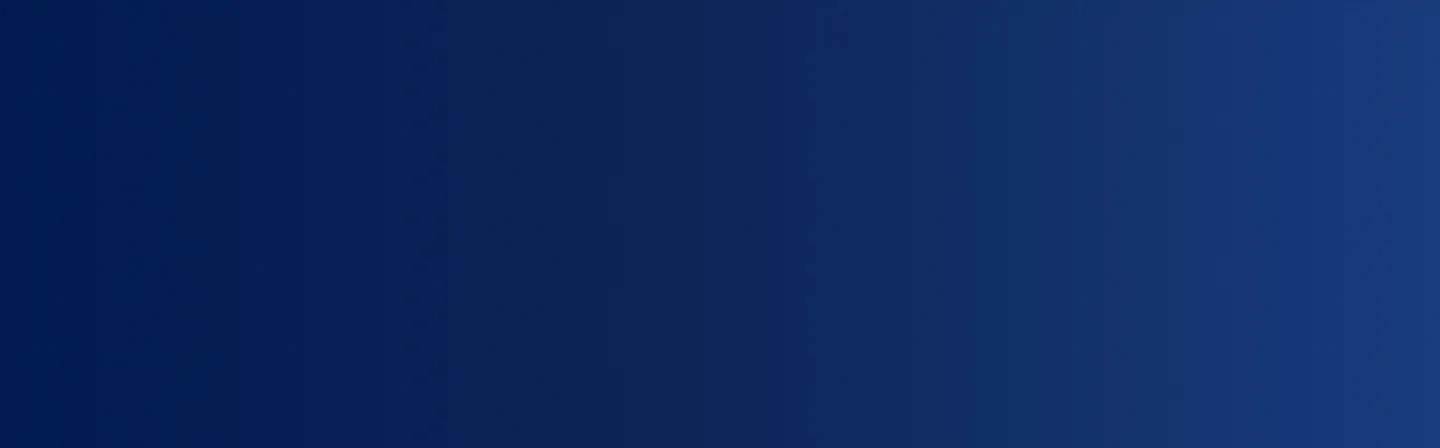
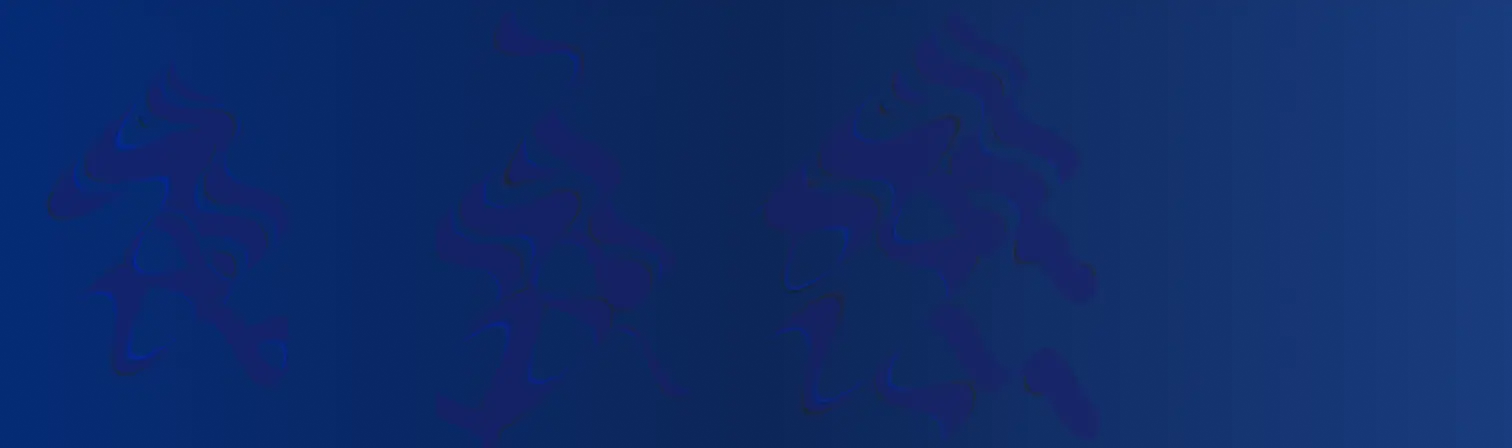
style: redesign footer section

diff --git a/src/components/Footer.jsx b/src/components/Footer.jsx
@@ -65,7 +65,7 @@ const Footer = () => {
       />
       
       {/* Layer 2: Monas Logo (Animated) */}
-      <div className="absolute right-0 bottom-0 z-10 h-full w-[80%] max-w-[650px] flex items-end justify-end pointer-events-none">
+      <div className="absolute right-0 -bottom-18 z-10 h-full w-[80%] max-w-[650px] flex items-end justify-end pointer-events-none">
         <img 
           ref={monasRef}
           src={monasLogo} 
@@ -135,7 +135,7 @@ const Footer = () => {
              </p>
            </div>
            
-           <div className="col-span-1 lg:col-span-7">
+           {/* <div className="col-span-1 lg:col-span-7">
              <div className="flex flex-wrap items-center gap-3">
                 <a href="#" className="flex items-center gap-2 rounded-lg bg-[#1d2a54] px-4 py-2.5 text-xs font-semibold text-[#e1e7f5] transition hover:bg-[#273a6a] hover:-translate-y-0.5 border border-white/5">
                    <InstagramIcon className="h-4 w-4" />
@@ -150,7 +150,7 @@ const Footer = () => {
                    @mlnarasyaaa_
                 </a>
              </div>
-           </div>
+           </div> */}
         </div>
       </div>
     </footer>

diff --git a/src/components/LandmarkExplorer.jsx b/src/components/LandmarkExplorer.jsx
@@ -115,9 +115,7 @@ const LandmarkExplorer = () => {
                                     className="w-full h-full select-none object-cover group-hover:scale-105 transition-transform duration-500"
                                     loading="lazy"
                                 />
-                                <div className="absolute top-2 right-2 bg-white w-7 h-7 rounded-full flex items-center justify-center shadow-md">
-                                    <Bookmark className="w-3.5 h-3.5 text-blue-800" />
-                                </div>
+                               
                             </div>
                             <h3 className="font-semibold text-center text-gray-900 pb-1 text-sm md:text-base">
                                 {landmark.title}
